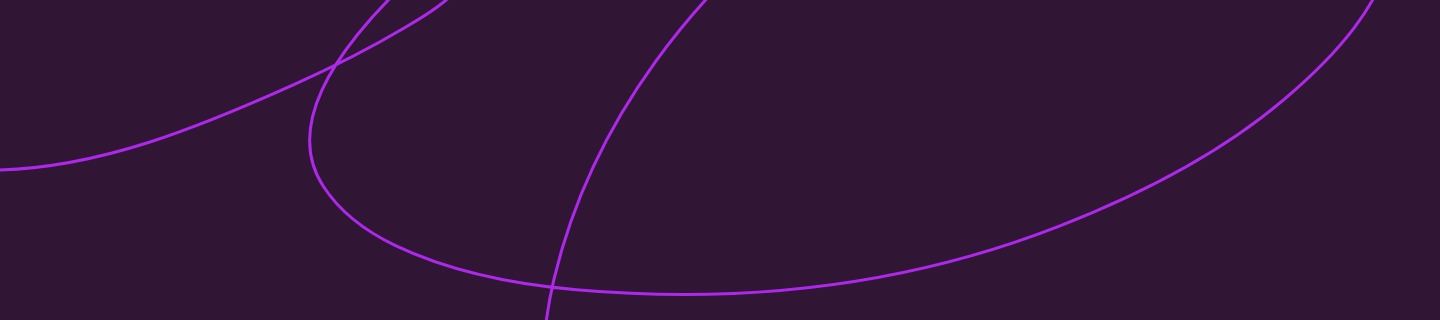
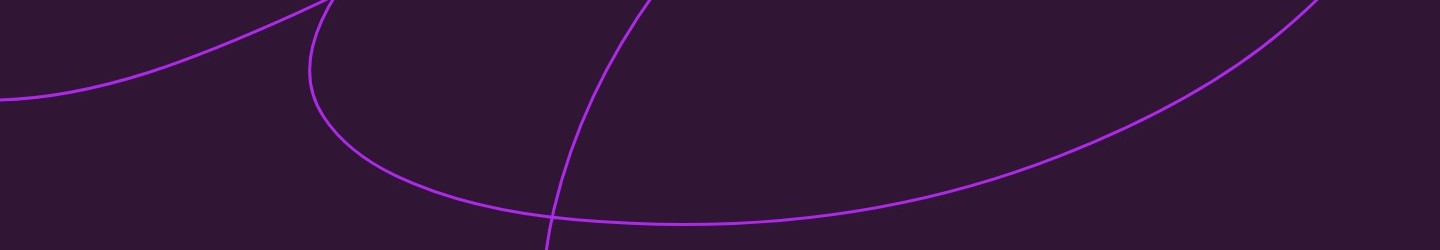
Proj_FAQSs em andamento (falta os ícones)

diff --git a/proj_FAQs/index.html b/proj_FAQs/index.html
@@ -2,6 +2,15 @@
 <html lang="en">
 
 <head>
+    <link href="https://fonts.googleapis.com/css2?family=Robotofamily=Rubik:ital,wght@0,300..900;1,300
+    ..900&family=Work+Sans:ital,wght@0,100..900;1,100..900&display=swap" rel="stylesheet">
+
+    <link href="https://fonts.googleapis.com/css2?family=Mitr:wght@400" rel="stylesheet">
+    <link href="https://fonts.googleapis.com/css2?family=Rubik:wght@300;400;500;600;700" display="swap" rel="stylesheet">
+
+   <link href="https://cdnjs.cloudflare.com/ajax/libs/font-awesome/6.7.2/css/all.min.css" rel="stylesheet">
+
+
     <meta charset="UTF-8">
     <meta name="viewport" content="width=device-width, initial-scale=1.0">
     <title>Projeto FAQs</title>
@@ -10,21 +19,21 @@
 
 <body>
     <div class="card">
-        <img class="image">
         <h1>FAQs</h1>
-        <p>What is Frontend Mentor, and how will it help me?</p>
+        <p class="sparkle">
+            <i class="fa-solid fa-sparkle"></i>
+        </p>
+        
+        <p class="text1">What is Frontend Mentor, and how will it help me?</p>
 
-        <p>Frontend Mentor offers realistic coding challenges to help developers improve their frontend
+        <p class="text2">Frontend Mentor offers realistic coding challenges to help developers improve their frontend
             coding skills with projects in HTML, CSS, and JavaScript. It's suitable for all levels and
-            ideal for portfolio building.</p>
+            ideal for portfolio building.</p>    
 
-        <p>Is Frontend Mentor free?</p>
-        <p>Can I use Frontend Mentor projects in my portfolio?</p>
-        <p>How can I get help if I'm stuck on a challenge?</p>
+        <p class="list">Is Frontend Mentor free?</p>
+        <p class="list">Can I use Frontend Mentor projects in my portfolio?</p>
+        <p class="list_noborder">How can I get help if I'm stuck on a challenge?</p>
     </div>
-    
-
-
 </body>
 
 </html>

diff --git a/proj_FAQs/styles.css b/proj_FAQs/styles.css
@@ -1,19 +1,79 @@
-body{
+body {
     background-color: #ffecfc;
     background-image: url("fundo_FAQs.jpeg");
     background-repeat: no-repeat;
+    background-position: top center;
+    background-size: 1600px;
+    display: flex;
+    justify-content: center;
+    align-items: center;
     height: 100vh;
-    width: 100vh;
-    background-position: center top;
+}
 
+.card {
+    background-color: white;
+    width: 550px;
+    height: flex;
+    border-radius: 20px;
+    padding-left: 50px;
+    padding-right: 50px;
+}
 
+h1 {
+    margin-top: 40px;
+    margin-bottom: 40px;
+    font-size: 55px;
+    font-family: 'Mitr';
+    color: #381434;
+}
+
+.text1 {
+    font-family: 'Rubik';
+    font-size: 18px;
+    font-weight: 600;
+    letter-spacing: 1px;
+    color: #431b3e;
 
 }
 
+.text2 {
+    margin-top: 30px;
+    padding-bottom: 30px;
+    letter-spacing: 1.5px;
+    font-family: 'Rubik';
+    font-weight: 400;
+    line-height: 25px;
+    color: #7c4f76;
+    border-bottom: 2px solid rgb(248, 243, 243);
+}
 
+.list {
+    margin-top: 30px;
+    padding-bottom: 30px;
+    font-size: 18px;
+    font-weight: 600;
+    letter-spacing: 1px;
+    color: #431b3e;
+    font-family: 'Rubik';
+    border-bottom: 2px solid rgb(248, 243, 243);
+}
 
+.list_noborder {
+    margin-top: 30px;
+    padding-bottom: 30px;
+    font-size: 18px;
+    font-weight: 600;
+    letter-spacing: 1px;
+    color: #431b3e;
+    font-family: 'Rubik';
+}
 
-
-.card{
-
+.sparkle {
+    font-size: 20px;
+    display: flex;
+    align-items: center;
+    color: rgb(246, 60, 246);
+}
+.sparkle i {
+    margin-right: 10px; /* Espaço entre o ícone e o texto */
 }
